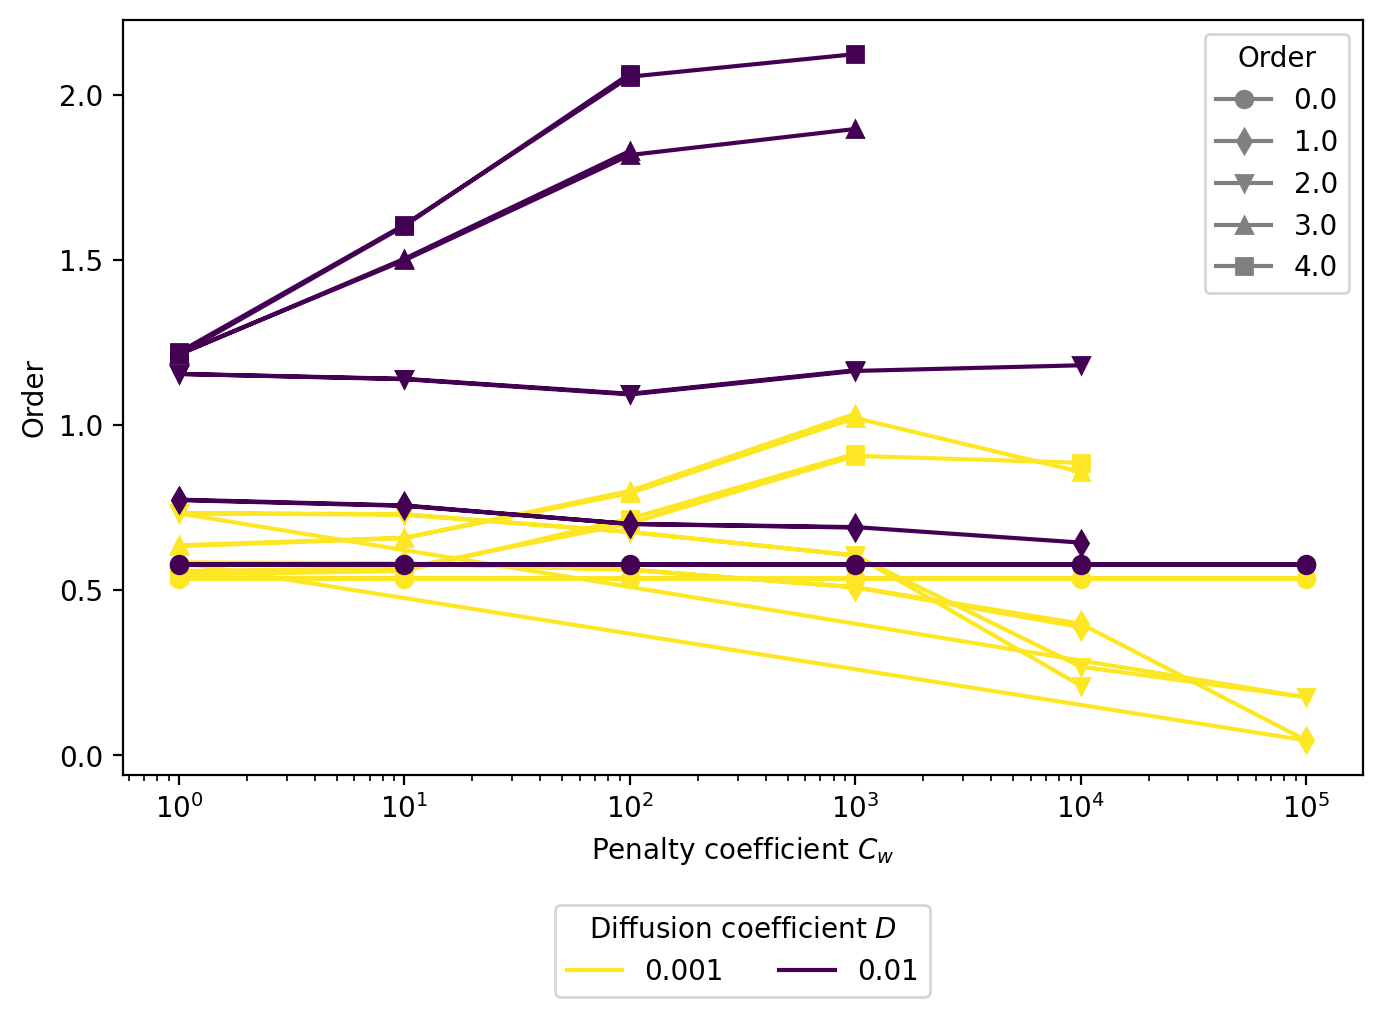
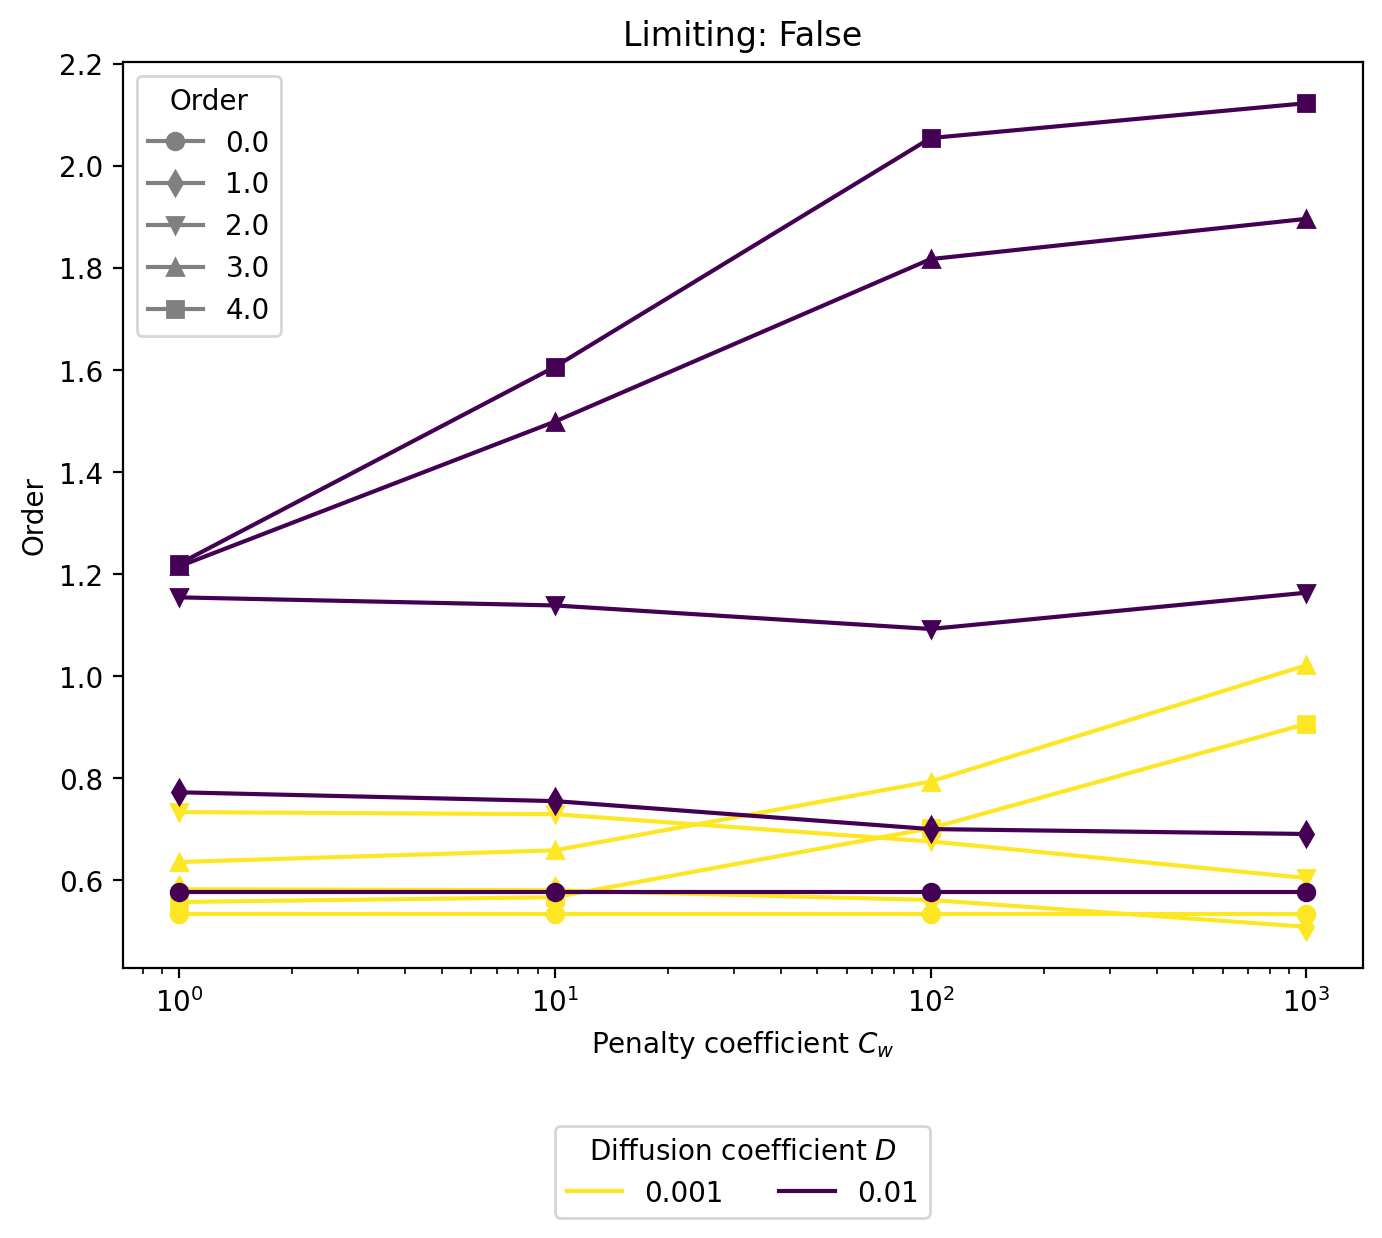
Nightly commit - start 2D limiter indicies

diff --git a/text/2_dg_general.tex b/text/2_dg_general.tex
@@ -74,14 +74,14 @@ and broken Sobolev space on $\Omega_h$ as
 	\in \Omega_h \right\}
 \end{equation}
 In finite dimensional discretization we will work in finite dimensional 
-subspaces of $W^{1, 2}(\Omega_h)$. On each element $T^k$ we express local 
-solution as linear combination of polynomial basis functions
+subspaces of $W^{1, 2}(\Omega_h)$. On each element $T^k$ we express 
+solution $p(t, \vec{x})$ locally as a linear combination of polynomial basis functions
 \begin{equation}
 \label{eq:el_lin_comb}
-	p_h^k(t, \vec{x}) \approx \sum\limits_{n=0}^{N_{base} - 1} 
+	p(t, \vec{x})|_{T^k} \approx p_h^k(t, \vec{x}) = \sum\limits_{n=0}^{N_{base} - 1} 
 	P_n^k\psi^k_n(\vec{x}),
 \end{equation}
-i.e. as function from local space
+i.e. as a function in local space
 \begin{equation}
 	V_{T^k} = \text{span}\big\{ \psi_n^k(\vec{x}), \; n = 0,1, \dots  
 	N_{base}-1\big\},
@@ -98,9 +98,9 @@ us to represent discontinuous solution, unlike in the classical FEM, where
 supports of basis functions overlap, spanning multiple elements and  thus 
 enforcing continuity of solution.
 
-In our setting $\psi_n^k(\vec{x})$ is composed of Legendre polynomials shifted 
-to interval $[0, 1]$ in such a way that set $\{\psi_n^k(\vec{x}),\; i = 0,1, 
-\dots  N_{base} - 1\}$ is orthogonal with respect to local scalar product
+In our setting $\psi_n^k(\vec{x})$ is composed of Legendre polynomials, shifted 
+to interval $[0, 1]$, in such a way that set $\{\psi_n^k(\vec{x}),\; i = 0,1, 
+\dots  N_{base} - 1\}$ is orthogonal with respect to the local scalar product
 \begin{equation}
 	\label{eq:scalar_prod_dk}
 	(p, v)_{T^k} = \int_{T^k} p \cdot v.
@@ -116,11 +116,11 @@ hence forming basis of $N_{base}$-dimensional space.
 %of $\Omega_h$; as number of basis functions, provides maximal number of basis 
 %function for given order which remain orthogonal. 
 
-Concrete shape of $\psi_n^k(\vec{x})$ depends on topology of the elements. For 
+Concrete shape of $\psi_n^k(\vec{x})$ depends on topology of the mesh elements. For 
 tensor product meshes i.e. quadrilateral elements we use straight-forward 
 tensor product of Legendre polynomials. If we denote $M$ the order of 
-approximation, $d$ dimension of geometric space and $L^\alpha(\xi)$ the shifted 
-Legendre polynomial of order $\alpha$ in variable $\xi$, then we get 
+approximation, $d$ dimension of geometric space (i.e., 2 in our case) and $L^\alpha(\xi)$ 
+the shifted Legendre polynomial of order $\alpha$ in variable $\xi$, we get 
 quadrilateral element basis functions in the form
 \begin{equation}
 \psi_n^k(\vec{x}) = L^r(x)L^s(y)\quad r, s = 0,1, \dots, M
@@ -757,13 +757,15 @@ in two space dimensions.
 					  \alpha_j(P^{k,m+1}_{i,j-1} - P^{k,m}_{i,j-1}),
 					  \alpha_j(P^{k,m}_{i,j-1} - P^{k,m-1}_{i,j-1}),\\
 					  \alpha_i(P^{k+1,m}_{i-1,j} - P^{k+1,m}_{i-1,j}),
-					  \alpha_i(P^{k-1,m}_{i-1,j} - P^{k,m}_{i-1,j})\big)
+					  \alpha_i(P^{k-1,m}_{i-1,j} - P^{k,m}_{i-1,j})\big),
 \end{multline}
 where 
-
 \begin{equation}
-	\frac{1}{2\sqrt{4n^2 - 1}} \leq \alpha_n \leq \sqrt{\frac{2n - 1}{2n + 1}}
-\end{equation} 
+	\frac{1}{2\sqrt{4n^2 - 1}} \leq \alpha_n \leq \sqrt{\frac{2n - 1}{2n + 1}}.
+\end{equation}
+Here leveraged the fact that we assume the mesh to be [regular tensor-product] and 
+introduced new notation indexing mesh elements as $T^{k,m}$
+
 
 
 %$$

diff --git a/text/examples/conv_burgers_hesthaven.tex b/text/examples/conv_burgers_hesthaven.tex
@@ -52,7 +52,13 @@ beneficial, it also helps counteract oscillations similarly to limiter in
 
 \begin{figure}[h!]
 	\centering
-	\includegraphics[scale=.6]{../figs/parametric/burgers_1D/orders_unlimited}
+	\begin{tabular}{p{0.5\textwidth} p{0.5\textwidth}}
+		\vspace{0pt} 
+		\includegraphics[width=0.49\textwidth]{../figs/parametric/burgers_1D/orders_unlimited}
+		&
+		\vspace{0pt} 
+		\includegraphics[width=0.49\textwidth]{../figs/parametric/burgers_1D/orders_limited}
+	\end{tabular}
 	\caption{\Cref{ex:burgers_hest} average order for different choice of $C_w$}
 	\label{fig:burgess_ordersunlimited}
 \end{figure}
@@ -60,7 +66,7 @@ beneficial, it also helps counteract oscillations similarly to limiter in
 
 \begin{figure}[p!]
 	\centering
-	\includegraphics[width=\textwidth]{../figs/parametric/burgers_1D/_convergences_allunlimited}
+	\includegraphics[width=\textwidth]{../figs/parametric/burgers_1D/convergences}
 	\caption{\Cref{ex:burgers_hest} convergence behavior for different choice of $C_w$}
 	\label{fig:burgess_conv}
 \end{figure}

diff --git a/text/examples/conv_laplace.tex b/text/examples/conv_laplace.tex
@@ -66,7 +66,7 @@ refining does not provide much benefit.
 
 \begin{figure}[p!]
 	\centering
-	\includegraphics[height=\textheight]{../figs/parametric/diffusion_2D/laplace}
+	\includegraphics[height=\textheight]{../figs/parametric/diffusion_2D/laplace.png}
 		
 	\caption{\Cref{ex:laplace} Convergence graph for different choice of $C_w$  for 
 		quadrilaterals (left) and triangles (right).}

diff --git a/text/5_conclusion.tex b/text/5_conclusion.tex
@@ -1,0 +1,9 @@
+
+
+Possible improvements:
+\begin{itemize}
+	\item optimization for einsum
+	\item Godunov and other fluxes
+	\item systems of PDEs
+	\item better limiter implementation
+\end{itemize}

diff --git a/text/DP_main.tex b/text/DP_main.tex
@@ -293,6 +293,7 @@ and \ref{ex:quart3} we ...
 
 \chapter{Conclusion}
 \label{ch:conclusion}
+\input{5_conclusion}
 
 
 \section*{Acknowledgment}
